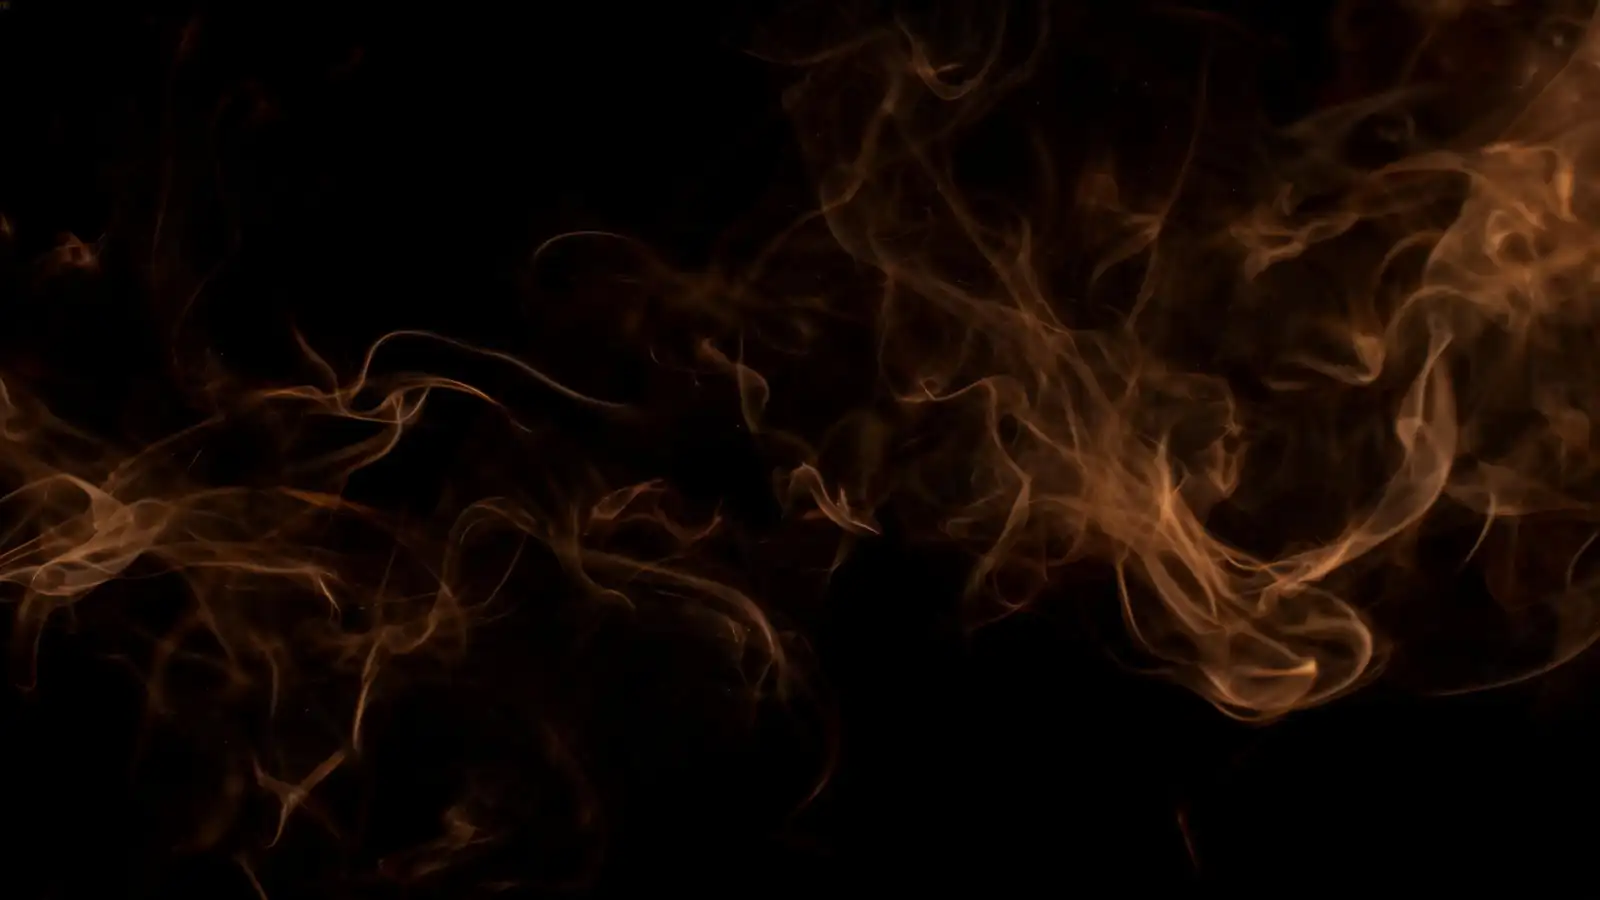
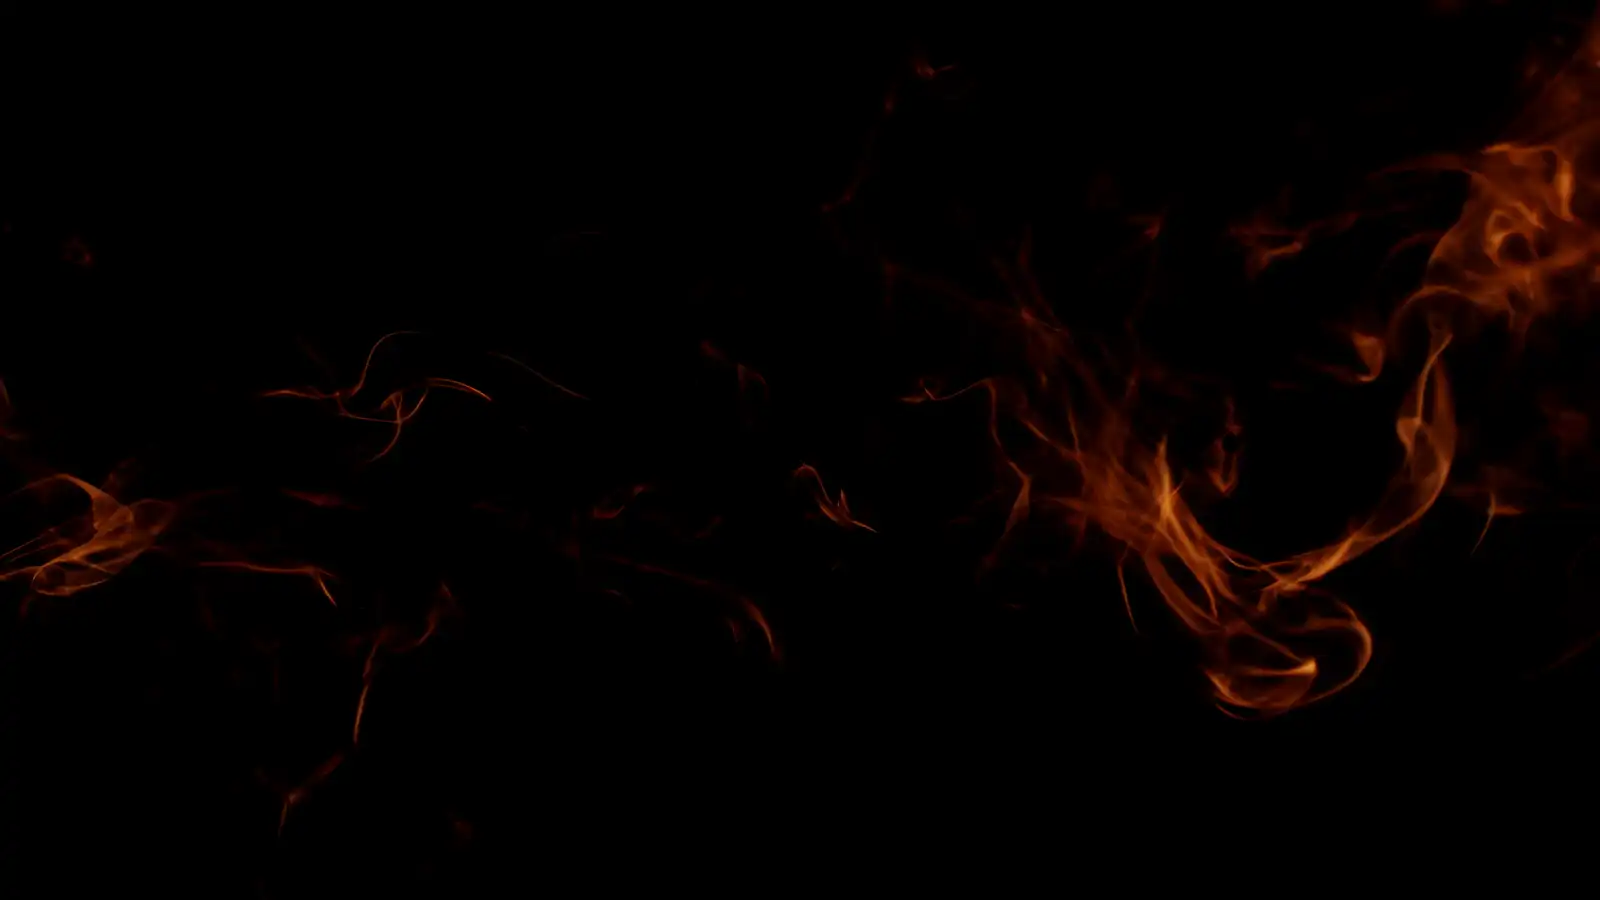
site: the walk keeps the night palette in light mode; seamless haze
The stage and the header over it keep the night palette in light mode,
and each tile of incense haze fades at its edges so the tiles meet
without a seam.

diff --git a/cmd/sitegen/templates/site.css b/cmd/sitegen/templates/site.css
@@ -346,7 +346,9 @@ html:not([lang^="zh"]) .newest-head .word { font-weight: 600; font-family: var(-
 .sc6 { background-position: 50% 30%; transform-origin: 50% 40%; }
 /* the near layers: incense haze (light on black, screened in) and banyan boughs (dark on white, multiplied in) */
 .walk .haze, .walk .boughs { position: absolute; top: 0; left: 0; width: 700vw; pointer-events: none; will-change: transform; }
-.walk .haze { height: 100%; background: url(img/scroll/smoke.webp) 0 60% / auto 70% repeat-x; mix-blend-mode: screen; opacity: .55; }
+/* each tile of haze fades out at its edges, so the tiles meet without a seam */
+.walk .haze { height: 100%; background: url(img/scroll/smoke.webp) 0 60% / 112vh 63vh repeat-x; mix-blend-mode: screen; opacity: .55;
+  -webkit-mask: radial-gradient(closest-side, #000 55%, transparent) 0 60% / 112vh 63vh repeat-x; mask: radial-gradient(closest-side, #000 55%, transparent) 0 60% / 112vh 63vh repeat-x; }
 .walk .boughs { z-index: 5; height: 34%; background: url(img/scroll/branches.webp) 0 0 / auto 100% repeat-x; mix-blend-mode: multiply; opacity: .85; }
 .scene.shake { animation: shake .18s steps(2) infinite; }
 @keyframes shake { 0% { transform: translate3d(-3px, 1px, 0); } 50% { transform: translate3d(3px, -1px, 0); } 100% { transform: translate3d(-1px, 2px, 0); } }
@@ -402,6 +404,10 @@ html:not(.walking) .st1 { opacity: 1; transform: none; }
 .hud { position: absolute; z-index: 6; right: var(--gutter); bottom: 22px; display: flex; align-items: center; gap: 12px; width: min(320px, 50vw); font: 13px/1 var(--mono); color: var(--muted); }
 .hud i { flex: 1; height: 2px; background: var(--line); position: relative; overflow: hidden; }
 .hud b { position: absolute; inset: 0; background: var(--ember); transform-origin: 0 50%; transform: scaleX(0); }
+/* the walk is a night scene in both schemes: its stage and the header over it keep the night palette */
+@media (prefers-color-scheme: light) {
+  .walk .stage, body.p-index .top { --bg: #0b0806; --bg-2: #15100c; --bg-3: #1f1812; --ink: #efe3cf; --muted: #a8977f; --line: rgba(239, 227, 207, .13); --ember: #f2b45c; --alarm: #ff6a4d; --on-ember: #160f08; --glow: rgba(242, 180, 92, .45); color: var(--ink); }
+}
 @media (prefers-color-scheme: light) { .walk .stage { background: #0b0806; color: #efe3cf; } .walk .stage .station p { color: #d8c9b2; } .walk .stage .checks li { color: #b9a98f; } .walk .stage .checks li.lit { color: #f3e8d6; } .walk .stage .station time { color: #f2b45c; } .walk .stage .st5 time, .walk .stage .st5 h2 { color: #ff6a4d; } .walk .shade { background: linear-gradient(90deg, rgba(11, 8, 6, .75), transparent 42%), linear-gradient(#0b0806, transparent 16%, transparent 72%, #0b0806); } }
 
 @media (max-width: 860px) {

diff --git a/docs/site/site.css b/docs/site/site.css
@@ -346,7 +346,9 @@ html:not([lang^="zh"]) .newest-head .word { font-weight: 600; font-family: var(-
 .sc6 { background-position: 50% 30%; transform-origin: 50% 40%; }
 /* the near layers: incense haze (light on black, screened in) and banyan boughs (dark on white, multiplied in) */
 .walk .haze, .walk .boughs { position: absolute; top: 0; left: 0; width: 700vw; pointer-events: none; will-change: transform; }
-.walk .haze { height: 100%; background: url(img/scroll/smoke.webp) 0 60% / auto 70% repeat-x; mix-blend-mode: screen; opacity: .55; }
+/* each tile of haze fades out at its edges, so the tiles meet without a seam */
+.walk .haze { height: 100%; background: url(img/scroll/smoke.webp) 0 60% / 112vh 63vh repeat-x; mix-blend-mode: screen; opacity: .55;
+  -webkit-mask: radial-gradient(closest-side, #000 55%, transparent) 0 60% / 112vh 63vh repeat-x; mask: radial-gradient(closest-side, #000 55%, transparent) 0 60% / 112vh 63vh repeat-x; }
 .walk .boughs { z-index: 5; height: 34%; background: url(img/scroll/branches.webp) 0 0 / auto 100% repeat-x; mix-blend-mode: multiply; opacity: .85; }
 .scene.shake { animation: shake .18s steps(2) infinite; }
 @keyframes shake { 0% { transform: translate3d(-3px, 1px, 0); } 50% { transform: translate3d(3px, -1px, 0); } 100% { transform: translate3d(-1px, 2px, 0); } }
@@ -402,6 +404,10 @@ html:not(.walking) .st1 { opacity: 1; transform: none; }
 .hud { position: absolute; z-index: 6; right: var(--gutter); bottom: 22px; display: flex; align-items: center; gap: 12px; width: min(320px, 50vw); font: 13px/1 var(--mono); color: var(--muted); }
 .hud i { flex: 1; height: 2px; background: var(--line); position: relative; overflow: hidden; }
 .hud b { position: absolute; inset: 0; background: var(--ember); transform-origin: 0 50%; transform: scaleX(0); }
+/* the walk is a night scene in both schemes: its stage and the header over it keep the night palette */
+@media (prefers-color-scheme: light) {
+  .walk .stage, body.p-index .top { --bg: #0b0806; --bg-2: #15100c; --bg-3: #1f1812; --ink: #efe3cf; --muted: #a8977f; --line: rgba(239, 227, 207, .13); --ember: #f2b45c; --alarm: #ff6a4d; --on-ember: #160f08; --glow: rgba(242, 180, 92, .45); color: var(--ink); }
+}
 @media (prefers-color-scheme: light) { .walk .stage { background: #0b0806; color: #efe3cf; } .walk .stage .station p { color: #d8c9b2; } .walk .stage .checks li { color: #b9a98f; } .walk .stage .checks li.lit { color: #f3e8d6; } .walk .stage .station time { color: #f2b45c; } .walk .stage .st5 time, .walk .stage .st5 h2 { color: #ff6a4d; } .walk .shade { background: linear-gradient(90deg, rgba(11, 8, 6, .75), transparent 42%), linear-gradient(#0b0806, transparent 16%, transparent 72%, #0b0806); } }
 
 @media (max-width: 860px) {
